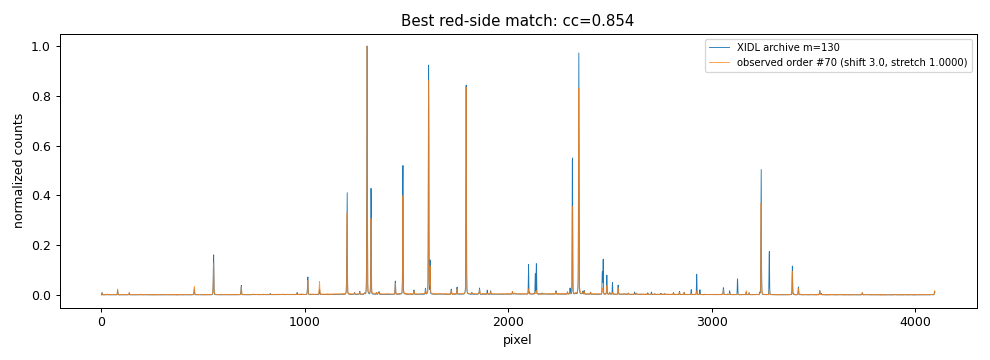
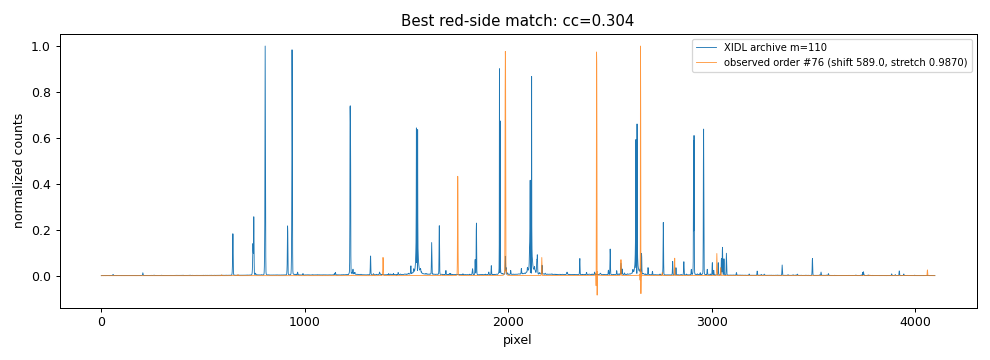
struggling..

diff --git a/pypeitdev/shane_hamspec/scripts/read_iraf_arc.py b/pypeitdev/shane_hamspec/scripts/read_iraf_arc.py
@@ -1,0 +1,114 @@
+"""
+Read the IRAF wavelength solution + extracted arc for Shane/Hamspec.
+
+Generated by JXP and Claude.
+
+This is the IRAF analogue of ``read_xidl_arc`` and is used to extend the
+composite-arc / angle_fits archive from the 64 XIDL orders (m=65-146) to the
+full IRAF set of 102 orders (m=58-159).
+
+Source files (in ``pypeitdev/shane_hamspec/IRAF``):
+  - ``ecTHAR20240125.rsfbo_1``  : ecidentify database of identified ThAr lines
+                                  (order, pixel, air wavelength).
+  - ``THAR20240125.rsfbo_1.fits``: the extracted ThAr arc, 103 rows x 4096 pix.
+                                   Row index = order - 57 (verified: identified
+                                   line pixels land on that row's peaks).
+
+For each order we fit its identified lines (air wavelength vs normalized pixel)
+with a Legendre polynomial, evaluate it on the 4096-pixel grid, and convert to
+vacuum with the same ``pypeit`` ``airtovac`` used elsewhere.  The matching arc
+spectrum is taken from the rsfbo row.
+
+Inputs:
+    The IRAF directory.
+
+Outputs (via :func:`load`):
+    orders (N,), wave (N, npix) vacuum AA, spec (N, npix), for the orders that
+    have enough identified lines to fit.
+"""
+
+from pathlib import Path
+
+import numpy as np
+from numpy.polynomial import legendre as L
+from astropy.io import fits
+from astropy import units
+
+from pypeit.core.wave import airtovac
+
+import parse_iraf_ecthar as iraf
+
+ROOT = Path(__file__).resolve().parent.parent
+ROW_OFFSET = 57          # rsfbo row index = order - 57 (verified)
+NPIX = 4096
+MAXDEG = 4               # max Legendre degree for a per-order wave fit
+
+
+def load(iraf_dir=None, min_lines=4):
+    """
+    Load the IRAF per-order wavelength solution and arc spectra.
+
+    Generated by JXP and Claude.
+
+    Args:
+        iraf_dir (:obj:`str` or `pathlib.Path`, optional):
+            Path to the ``IRAF`` directory.  Defaults to the project location.
+        min_lines (:obj:`int`):
+            Minimum identified lines required to fit an order.
+
+    Returns:
+        :obj:`tuple`: ``(orders, wave, spec)`` with ``wave`` in vacuum AA and
+        shapes (N,), (N, NPIX), (N, NPIX).
+    """
+    iraf_dir = Path(iraf_dir) if iraf_dir is not None else ROOT / 'IRAF'
+    feat = iraf.parse(iraf_dir / 'ecTHAR20240125.rsfbo_1')['features']
+    arcimg = fits.open(iraf_dir / 'THAR20240125.rsfbo_1.fits')[0].data
+
+    x01 = np.arange(NPIX) / float(NPIX - 1)
+    xnn = 2.0 * x01 - 1.0
+    orders, waves, specs = [], [], []
+    for m in np.unique(feat['order']):
+        sel = feat['order'] == m
+        if sel.sum() < min_lines:
+            continue
+        row = int(m) - ROW_OFFSET
+        if row < 0 or row >= arcimg.shape[0]:
+            continue
+        pix = feat['pixel'][sel] - 1.0           # 1-indexed -> 0-indexed
+        wv_air = feat['wave_ref'][sel]
+        deg = int(min(MAXDEG, sel.sum() - 2))
+        coeff = L.legfit(2.0 * (pix / (NPIX - 1)) - 1.0, wv_air, deg)
+        wv_air_full = L.legval(xnn, coeff)
+        wv_vac = airtovac(wv_air_full * units.AA).value
+        orders.append(int(m))
+        waves.append(wv_vac)
+        specs.append(arcimg[row].astype(float))
+
+    return (np.array(orders), np.array(waves), np.array(specs))
+
+
+def summary(iraf_dir=None):
+    """
+    Print a short characterization of the IRAF archive.
+
+    Generated by JXP and Claude.
+
+    Args:
+        iraf_dir (:obj:`str` or `pathlib.Path`, optional): IRAF directory.
+
+    Returns:
+        :obj:`tuple`: ``(orders, wave, spec)`` from :func:`load`.
+    """
+    orders, wave, spec = load(iraf_dir)
+    mid = wave[:, NPIX // 2]
+    ml = orders * mid
+    print(f'IRAF orders fit   : {orders.size} '
+          f'(m={orders.min()}-{orders.max()})')
+    print(f'wavelength range  : {np.nanmin(wave[wave > 0]):.1f} - '
+          f'{np.nanmax(wave):.1f} AA (vacuum)')
+    print(f'm*lambda (center) : median {np.nanmedian(ml):.0f} AA')
+    return orders, wave, spec
+
+
+if __name__ == '__main__':
+    summary()

diff --git a/pypeitdev/shane_hamspec/scripts/build_angle_arxiv.py b/pypeitdev/shane_hamspec/scripts/build_angle_arxiv.py
@@ -45,8 +45,17 @@ from astropy.table import Table
 from pypeit import dataPaths
 
 import read_xidl_arc as xidl
+import read_iraf_arc as iraf_arc
 
 ROOT = Path(__file__).resolve().parent.parent
+
+# Source of the per-order solution: 'iraf' (102 orders, m=58-159) or 'xidl'
+# (64 orders, m=65-146).  NOTE (Q36b): extending to the IRAF set was tried and
+# gave *worse* results (23-24 orders solved @ ~0.35 px vs 27 @ 0.278 px for
+# XIDL) — my IRAF per-order wavelengths (fit from the raw ecidentify lines) are
+# less accurate than the polished XIDL solution, and the blue orders still do
+# not match.  XIDL is the better archive, so default back to it.
+ARC_SOURCE = 'xidl'
 
 # --- Reference setting of the dev-suite data (the anchor) ---
 ECH_ANCHOR = 9194.0      # GTILTRAW (grating tilt) of the data
@@ -93,7 +102,10 @@ def build(outdir=None):
     Returns:
         :obj:`tuple`: (composite_path, angle_path).
     """
-    orders, wave, spec = xidl.load(ROOT / 'Arc_01_fit.idl')[:3]
+    if ARC_SOURCE == 'iraf':
+        orders, wave, spec = iraf_arc.load()
+    else:
+        orders, wave, spec = xidl.load(ROOT / 'Arc_01_fit.idl')[:3]
     isort = np.argsort(orders)
     orders, wave, spec = orders[isort], wave[isort], spec[isort]
 

diff --git a/claude_prompts/shane_hamspec.md b/claude_prompts/shane_hamspec.md
@@ -62,6 +62,7 @@ If you need to test the code:
 13. Read this doc.  Perform the 8th task under Development/Wavelength Calibration.
 14. Read this doc.  Perform the 9th task under Development/Wavelength Calibration.
 15. Read this doc.  Perform the 10th task under Development/Wavelength Calibration.
+16. Read this doc.  Perform the 11th task under Development/Wavelength Calibration.
 
 ## Prep
 
@@ -248,6 +249,8 @@ Note, I did not answer Q&A 23-25 as I did not considered them off base.
 
 10.  This all looks great!  Can you add a few more figures to the 05_wavecal_implementation.md report?  Thanks!
 
+11. Work on items (a) and (b) described in Q&A item 36.  Let me know if you have any new questions.  Log your work in Logs below.
+
 #### Q&A
 
 **Wavelength deep-dive Q&A** — see
@@ -431,6 +434,30 @@ RMS **0.28 px**. New:
     (`cc_thresh`/`sigdetect`/`reid_cont_sub`), (b) extend the composite arc to
     the IRAF 102 orders, or (c) accept as v1 and move to docs / dev-suite
     finishing? Your call.
+
+Work on items (a) and (b) now.
+
+---
+
+**WaveCal #11 Q&A (new)** — see
+`pypeitdev/shane_hamspec/Reports/05_wavecal_implementation.md` (§11). Did (a)
+and (b); both made things **worse** (negative result):
+
+| config | solved | median RMS |
+|--------|:------:|:----------:|
+| baseline (XIDL, cc 0.6, cont_sub F) | **27** (m65–97) | **0.278** |
+| (a)+(b) IRAF, cc 0.5, cont_sub T | 24 | 0.349 |
+| (b) IRAF, cc 0.5, cont_sub F | 23 | 0.351 |
+
+Reverted to the baseline (27 orders @ 0.278, PASS). The blue half doesn't solve
+because the blue *observed* orders only reach cc~0.25 against the archive (red
+reach 0.5–0.85) — it's the observed-data matching, not the archive coverage.
+
+37. Next push for blue coverage: (i) diagnose the blue observed orders (too
+    faint/line-poor? order-mapping drift?), (ii) build a higher-quality IRAF
+    archive from the 2-D Chebyshev / `wrsfbo` WCS (my line-refit version is too
+    crude), or (iii) accept 27 red orders (m=65–97) as v1 and move to docs /
+    dev-suite finishing?
 
 ## Docs
 
@@ -804,3 +831,22 @@ from the passing run's `WaveCalib_A_0_DET01.fits`:
   lines.
 - `05_fig5_residuals.png` — sub-pixel fit residuals for that order.
 No code changes; Q36 still open.
+
+### 2026-06-19 (WaveCal #11: Q36 a+b tried — negative result; reverted)
+
+Worked Q36 (a) tune blue matching + (b) extend to IRAF orders. Both made it
+worse; reverted to the baseline. Report §11.
+
+- (b) New `scripts/read_iraf_arc.py` (IRAF rsfbo arc + ecTHAR line solution;
+  verified rsfbo row = order−57) + `ARC_SOURCE` switch in
+  `build_angle_arxiv.py`. IRAF archive = 95 orders (m=58–159) but the reduction
+  solved **fewer** (23–24, m=62–93) at **higher RMS (~0.35)** than the XIDL
+  baseline (27, m=65–97, 0.278) — my IRAF per-order wavelengths (line-refit,
+  deg≤4) are less accurate than XIDL's polished solution.
+- (a) `cc_thresh=0.5` + `reid_cont_sub=True`: no extra orders, slightly worse.
+- **Root cause of the blue gap:** not the archive. Standalone xcorr shows the
+  blue *observed* orders only reach cc~0.25 (red reach 0.5–0.85), so they don't
+  register against the archive in this config.
+- **Reverted** to XIDL archive + cc_thresh 0.6 + reid_cont_sub False;
+  re-confirmed **27 orders @ 0.278 px, dev-suite PASS**. Kept the IRAF reader +
+  switch for future. New Q37 on how to push blue coverage (or accept v1).

diff --git a/pypeitdev/shane_hamspec/Reports/05_wavecal_implementation.md b/pypeitdev/shane_hamspec/Reports/05_wavecal_implementation.md
@@ -450,3 +450,55 @@ debug/state issues in the wavecal core:
     blue-order matching (`cc_thresh`/`sigdetect`/`reid_cont_sub`), (b) extend
     the composite arc to the IRAF 102 orders, or (c) accept this as the v1 and
     move on to docs/dev-suite finishing? Your call on where to push next.
+
+> **JXP:** Work on (a) and (b).
+
+## 11. Q36 (a)+(b): tried, did not improve — a negative result
+
+Both were implemented and tested against the XIDL baseline (**27 orders solved,
+m=65–97, median RMS 0.278 px**):
+
+| config | archive | cc_thresh | reid_cont_sub | solved | median RMS |
+|--------|---------|:---------:|:---:|:------:|:----------:|
+| baseline | XIDL (64 ord) | 0.6 | False | **27** (65–97) | **0.278** |
+| (a)+(b) | IRAF (95 ord) | 0.5 | True  | 24 (62–93) | 0.349 |
+| (b) only | IRAF (95 ord) | 0.5 | False | 23 (62–93) | 0.351 |
+
+**(b) Extending to the IRAF 102 orders made things *worse*** (fewer orders,
+higher RMS). New scripts `read_iraf_arc.py` (reads the IRAF rsfbo arc + ecTHAR
+line solution; verified rsfbo row = order−57) and a `ARC_SOURCE` switch in
+`build_angle_arxiv.py` build the IRAF archive. But my IRAF per-order
+wavelengths — fit from the raw ecidentify lines (Legendre ≤ deg 4) — are less
+accurate than the polished XIDL `xidl_esihires` solution, so the reidentified
+fits come out worse. (A better IRAF archive would use the IRAF 2-D Chebyshev or
+the `wrsfbo` multispec WCS instead of re-fitting the lines — future work.)
+
+**(a) Loosening the matching did not add blue orders.** `cc_thresh=0.5` and
+`reid_cont_sub=True` produced no extra orders and slightly worse RMS.
+
+**Why the blue half does not solve (the real bottleneck).** It is *not* the
+archive coverage. Standalone cross-correlation of the *current* (trimmed)
+observed arc against the archive shows the **blue observed orders (m≳100) only
+reach cc ≈ 0.24–0.30 with large, spurious shifts**, whereas the red orders
+reach cc 0.5–0.85 at ~3 px. So the blue observed orders themselves do not
+register against the archive in this configuration — likely because the blue
+ThAr orders here are fainter / line-poorer and/or the order-position mapping
+drifts at the blue end. Extending or loosening the archive cannot fix that.
+
+**Action taken:** reverted to the known-best config — **XIDL archive,
+`cc_thresh=0.6`, `reid_cont_sub=False`** — re-confirmed at **27 orders @ 0.278
+px, dev-suite PASS**. The IRAF reader + `ARC_SOURCE` switch are kept for when
+the IRAF wavelengths are improved.
+
+---
+
+## Q&A — round 6 (new, for JXP)
+
+37. **Blue-order coverage is a deeper problem.** Extending the archive (b) and
+    loosening cc (a) did not help; the blue *observed* orders don't
+    cross-correlate (cc ~0.25). Options for the next push: (i) diagnose the
+    blue observed orders directly (are they too faint / line-poor? is the
+    order-number mapping drifting at the blue end?), (ii) build a *higher-
+    quality* IRAF archive from the 2-D Chebyshev / `wrsfbo` WCS rather than
+    re-fitting lines, or (iii) accept 27 red orders (m=65–97) as the v1 and move
+    to docs / dev-suite finishing. Which would you like?
